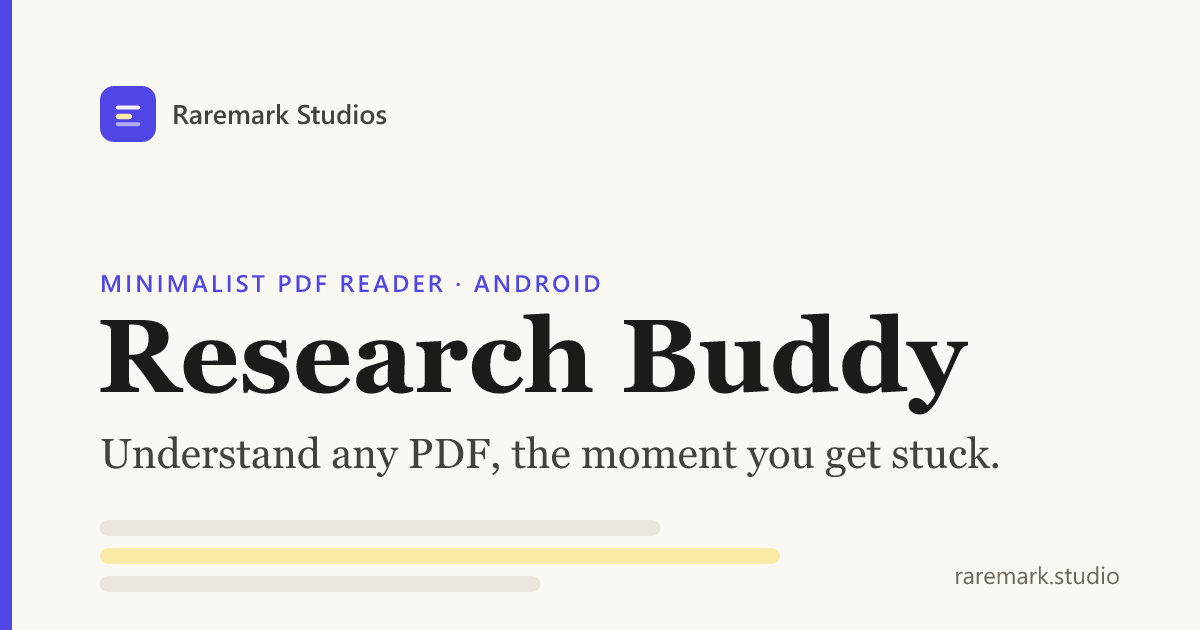
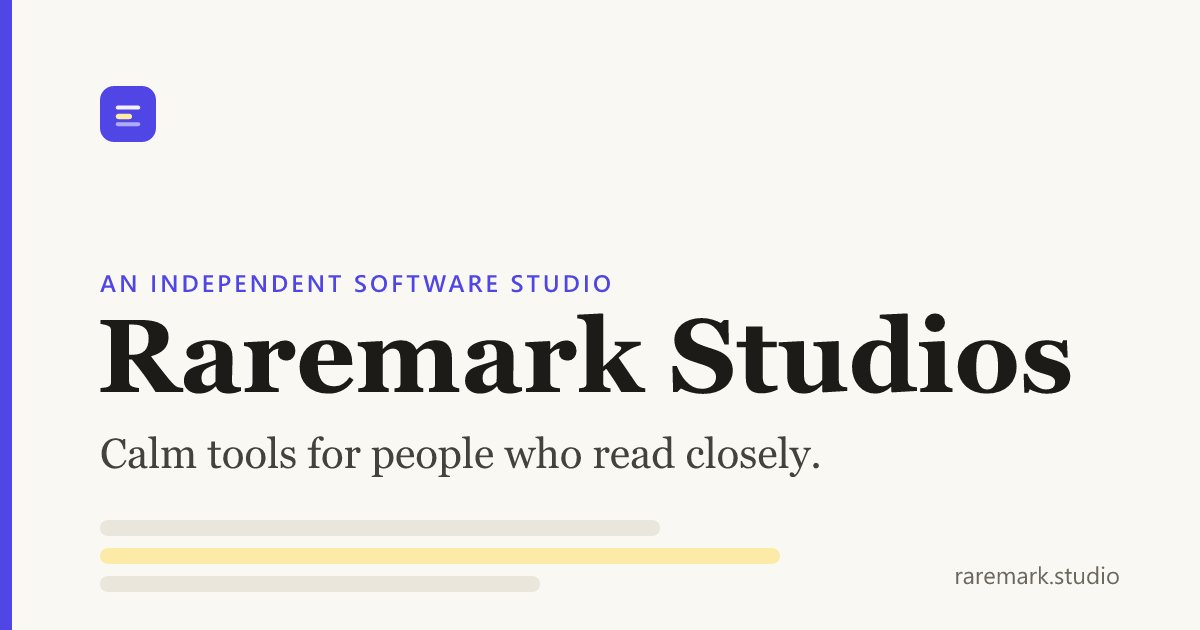
Reposition homepage: studio-first, Research Buddy as featured product

Changed region(s): [[0.0617, 0.4222, 0.8942, 0.6635], [0.0617, 0.6937, 0.8325, 0.754], [0.1233, 0.1508, 0.3392, 0.2111]]

diff --git a/src/consts.ts b/src/consts.ts
@@ -14,9 +14,9 @@ export const SITE = {
   url: 'https://raremark.studio',
   /** Default meta description for pages that don't set their own. */
   description:
-    'Research Buddy is a minimalist PDF reader for Android with AI explanations built into the page. Long-press to define, swipe to explain — without losing your place.',
-  /** One-line value prop used in the hero. */
-  tagline: 'Understand any PDF, the moment you get stuck.',
+    'Raremark Studios is a small independent studio building calm tools for people who read closely — software that earns its place on your screen, then gets out of your way.',
+  /** Studio tagline — used on the OG image and in the footer voice. */
+  tagline: 'Calm tools for people who read closely.',
 } as const;
 
 /**
@@ -36,6 +36,12 @@ export const PLAY_STORE_URL = '#';
 
 /** Has the app actually shipped to Play yet? Flips the CTA copy/state. */
 export const IS_LIVE = false;
+
+/**
+ * Research Buddy's own marketing site. This studio site features the product
+ * and links OUT to it. TODO: paste the real Research Buddy site URL.
+ */
+export const RESEARCH_BUDDY_URL = '#';
 
 /** Primary nav + footer links. */
 export const NAV = [